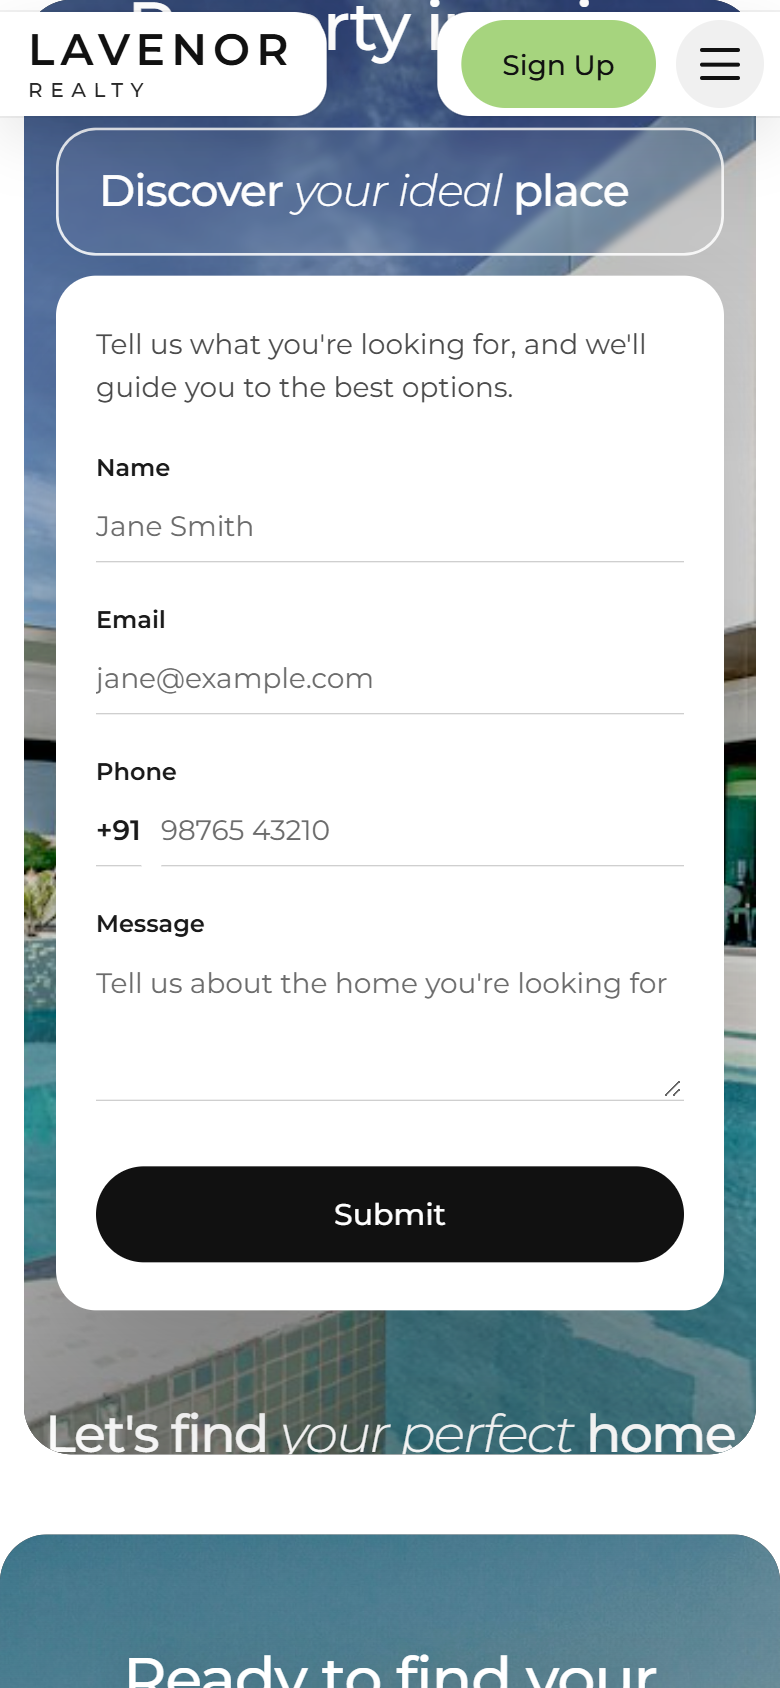
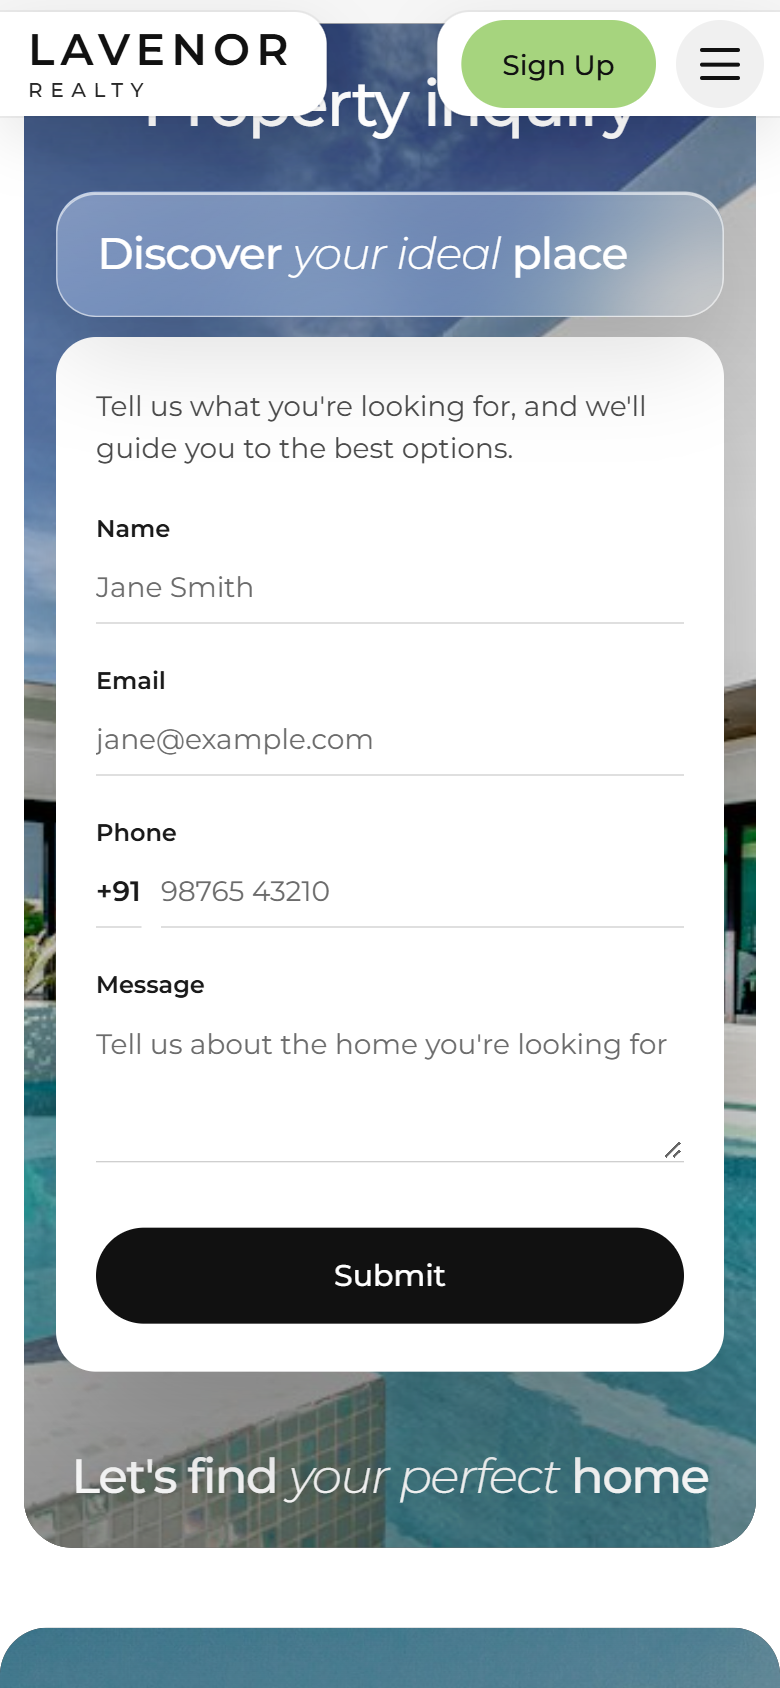
Inquiry band: keep titles inside the frame, size to the viewport, frostier glass pane

diff --git a/design/prototype/style.css b/design/prototype/style.css
@@ -868,7 +868,7 @@ legend { padding: 0; }
 .inquiry { padding: 0 0 20px; }
 .inquiry__frame {
 	position: relative; display: flex; align-items: center; justify-content: center;
-	min-height: max(92svh, 760px); margin: 0 var(--wp--custom--hero--frame); padding: 140px 40px;
+	min-height: max(calc(100svh - 2 * var(--wp--custom--hero--frame)), 760px); margin: 0 var(--wp--custom--hero--frame); padding: 150px 40px;
 	border-radius: var(--wp--custom--radius--card); overflow: hidden;
 	background: var(--wp--preset--color--contrast); color: var(--wp--preset--color--base);
 }
@@ -879,14 +879,16 @@ legend { padding: 0; }
 	font-weight: 500; line-height: 1; letter-spacing: -0.03em; white-space: nowrap;
 	text-shadow: 0 2px 30px rgba(0, 0, 0, 0.25); pointer-events: none;
 }
-.inquiry__title { top: -0.1em; font-size: clamp(44px, 7vw, 104px); }
-.inquiry__tag { bottom: -0.1em; font-size: clamp(36px, 6.4vw, 96px); }
+.inquiry__title { top: 34px; font-size: clamp(40px, 5.6vw, 84px); }
+.inquiry__tag { bottom: 30px; font-size: clamp(32px, 5.2vw, 78px); }
 .inquiry__tag em, .inquiry__glass-text em { font-style: italic; font-weight: 300; }
 .inquiry__card { position: relative; z-index: 1; display: grid; grid-template-columns: 320px 360px; gap: 16px; }
 .inquiry__glass {
 	display: flex; align-items: flex-start; padding: 32px;
-	border: 1.5px solid rgba(255, 255, 255, 0.85); border-radius: 20px;
-	background: rgba(255, 255, 255, 0.06); -webkit-backdrop-filter: blur(2px); backdrop-filter: blur(2px);
+	border: 1px solid rgba(255, 255, 255, 0.55); border-radius: 20px;
+	background: linear-gradient(160deg, rgba(255, 255, 255, 0.34), rgba(255, 255, 255, 0.14));
+	-webkit-backdrop-filter: blur(22px) saturate(1.3); backdrop-filter: blur(22px) saturate(1.3);
+	box-shadow: inset 0 1px 0 rgba(255, 255, 255, 0.6), 0 20px 50px rgba(0, 0, 0, 0.12);
 }
 .inquiry__glass-text { font-size: 30px; font-weight: 500; line-height: 1.15; letter-spacing: -0.02em; }
 .inquiry__glass-text em { display: block; }
@@ -1380,9 +1382,9 @@ legend { padding: 0; }
 	.faq__team { margin-top: 22px; }
 	.faq__q { gap: 16px; padding: 18px 20px; font-size: 17px; }
 	.faq__a p { padding: 0 20px 20px; font-size: 14px; }
-	.inquiry__frame { min-height: 0; padding: 64px 16px 72px; }
-	.inquiry__title { font-size: 34px; }
-	.inquiry__tag { font-size: 26px; }
+	.inquiry__frame { min-height: 0; padding: 84px 16px 88px; }
+	.inquiry__title { top: 24px; font-size: 32px; }
+	.inquiry__tag { bottom: 24px; font-size: 24px; }
 	.inquiry__card { grid-template-columns: 1fr; width: 100%; gap: 10px; }
 	.inquiry__glass { padding: 18px 20px; }
 	.inquiry__glass-text { font-size: 22px; }
